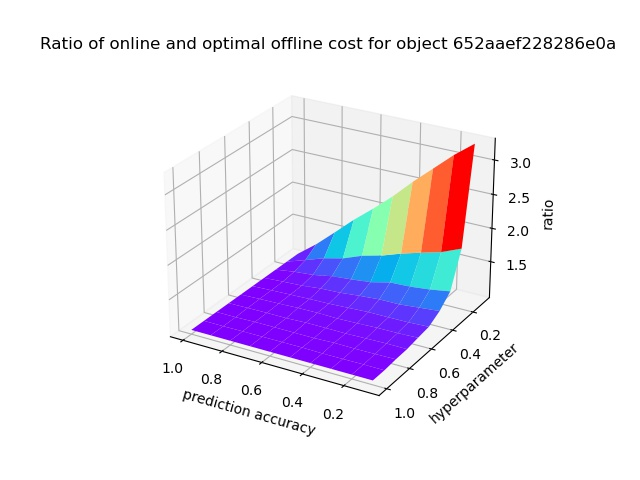
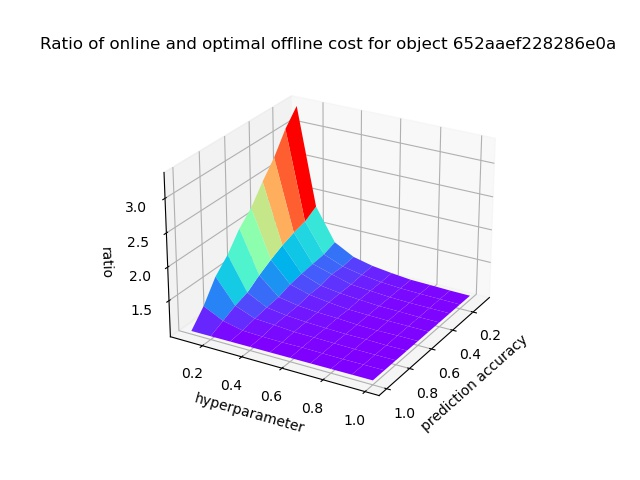
update

diff --git a/experiment.py b/experiment.py
@@ -13,25 +13,9 @@ import pandas as pd;
 import random;
 
 
-#alpha=1;
-#r=64;      ## r = actual total request rate * 16
-
-#requests = pd.read_table('data/'+str(alpha)+'_'+str(r)+'_Zipf1.txt',sep='\t',header=None);  ##request is now a dataframe
-#requests = np.array(requests);                                       ##convert into a numpy array
-#requests = requests.flatten();                                       ##convert it into 1-D array
-#requests = requests.tolist();                                         ##convert it into a list
-
-#local_server = pd.read_table('data/'+str(alpha)+'_'+str(r)+'_Zipf2.txt',sep='\t',header=None); 
-#local_server = local_server.astype('int')
-#local_server = np.array(local_server);                                    
-#local_server = local_server.flatten();                                       
-#local_server = local_server.tolist();        
-
-
 number_of_server = 10;
 alpha = 1;
 data = [];
-transfer_cost = 10000;
 with open("data/IBMObjectStore2.txt") as file:
     for item in file:
         item = item.strip('\n');
@@ -68,43 +52,45 @@ for ID in id_list:
                     local_server.append(j);
                     break;
         local_server[0] = 0;
-
-
-        ## Try different combinations of hyperparameter and prediction accuracy
-        hyperpara = np.array([0.1,0.2,0.3,0.4,0.5,0.6,0.7,0.8,0.9,1]);
-        accuracy = np.array([0.1,0.2,0.3,0.4,0.5,0.6,0.7,0.8,0.9,1]);
-        A, H = np.meshgrid(hyperpara, accuracy);
-        ratio = np.zeros((len(hyperpara),len(accuracy)));
-
-
-        offline_cost = offline(requests,local_server);
-        consistency = True;
-        robustness = True;
-        for i in range(len(hyperpara)):                     #hyperpara---->Y axis (data in row is the same)
-            for j in range(len(accuracy)):                  #accuracy---->X axis (data in column is the same)
-                ratio[i][j] = online(requests,local_server,hyperpara[i],accuracy[j])/offline_cost;
         
-                if ratio[i][j] > 1+(1/hyperpara[i]):
-                    robustness = False;
+        #Discuss the cases when the transfer cost is 10, 100, 1000, or 10000.
+        for transfer_cost in [10,100,1000,10000]:
+            ## Try different combinations of hyperparameter and prediction accuracy
+            hyperpara = np.array([0.1,0.2,0.3,0.4,0.5,0.6,0.7,0.8,0.9,1]);
+            accuracy = np.array([0.1,0.2,0.3,0.4,0.5,0.6,0.7,0.8,0.9,1]);
+            A, H = np.meshgrid(hyperpara, accuracy);
+            ratio = np.zeros((len(hyperpara),len(accuracy)));
+
+
+            offline_cost = offline(requests,local_server, transfer_cost);
+            consistency = True;
+            robustness = True;
+            for i in range(len(hyperpara)):                     #hyperpara---->Y axis (data in row is the same)
+                for j in range(len(accuracy)):                  #accuracy---->X axis (data in column is the same)
+                    ratio[i][j] = online(requests,local_server,hyperpara[i],accuracy[j],transfer_cost)/offline_cost;
+        
+                    if ratio[i][j] > 1+(1/hyperpara[i]):
+                        robustness = False;
             
-                if accuracy[j] == 1:
-                    if ratio[i][j] > (5+hyperpara[i])/3:
-                        consistency = False;
+                    if accuracy[j] == 1:
+                        if ratio[i][j] > (5+hyperpara[i])/3:
+                            consistency = False;
         
         
 
-        fig = plt.figure();
-        ax = plt.axes(projection = '3d');
-        ax.plot_surface(A,H,ratio,alpha=1,cmap='rainbow');
-        ax.set_ylabel('hyperparameter');
-        ax.set_xlabel('prediction accuracy');
-        ax.set_zlabel('ratio');
-        ax.set_title('Ratio of online and optimal offline cost for object '+ID);
-        ax.view_init(25,120);
-        plt.show();
-        plt.savefig('./Figure/'+'TransferCost='+str(transfer_cost)+'.jpg')
+            fig = plt.figure();
+            ax = plt.axes(projection = '3d');
+            ax.plot_surface(A,H,ratio,alpha=1,cmap='rainbow');
+            ax.set_ylabel('hyperparameter');
+            ax.set_xlabel('prediction accuracy');
+            ax.set_zlabel('ratio');
+            ax.set_title('Ratio of online and optimal offline cost for object '+ID);
+            ax.view_init(25,30);
+            plt.show();
+            plt.savefig('./Figure/'+'TransferCost='+str(transfer_cost)+'.jpg')
 
-
-        print('Always lower than consistency ratio when predictions are all correct? ',consistency);
-        print('Always lower than robustness ratio? ',robustness);
+            
+            print('When the transfer cost is '+str(transfer_cost)+',');
+            print('Always lower than consistency ratio when predictions are all correct? ',consistency);
+            print('Always lower than robustness ratio? ',robustness);
 

diff --git a/OfflineAlgorithmN.py b/OfflineAlgorithmN.py
@@ -6,11 +6,10 @@ Created on Wed Oct 26 15:27:06 2022
 """
 
 cache_cost = 1;
-transfer_cost = 10000;            #We assume that the transfer cost is 2.
 
 
 ##Find the candidate request r_k s.t. the storage period [r_{p(k)},r_k] crosses r_{p(i)}
-def FindHighestCross(start, end, requests, previous):
+def FindHighestCross(start, end, requests, previous, transfer_cost):
     highestCross = start;           ##highestCross is the highest index of request r_h between r_{p(i)} and r_{i} s.t. t_{h}-t_{p(h)} < transfer_cost
     candidate = [];
     first_request = [];             ##this list is used to store the indexes of candidate requests
@@ -33,7 +32,7 @@ def FindHighestCross(start, end, requests, previous):
 
 
 ##calcuate the marginal cost of request from index start to index end
-def MarginalBound(start, end, requests, previous):
+def MarginalBound(start, end, requests, previous, transfer_cost):
     cost = 0;
     cache = 0;
     for i in range(start, end+1):
@@ -49,7 +48,7 @@ def MarginalBound(start, end, requests, previous):
 
 
 
-def offline(requests,local_server):
+def offline(requests, local_server, transfer_cost):
     #requests = [0,1,4,5,8];          ##The request sequence should contain dummy request.
     #local_server =  [0,1,1,2,0];      ##the local servers of requests (indexed from 0)
     servers = max(local_server);     ##number of servers-1
@@ -86,11 +85,11 @@ def offline(requests,local_server):
         ##calculate the optimal cost when r_i is served by local cache
         ##case 1: For r_i, there is a previous local request in the same server. 
         if previous[i] > -1:
-            pivots = FindHighestCross(previous[i], i, requests, previous);
-            mincost = optimal[previous[i]] + (requests[i]-requests[previous[i]]) + MarginalBound(previous[i]+1, i-1, requests, previous);    
+            pivots = FindHighestCross(previous[i], i, requests, previous, transfer_cost);
+            mincost = optimal[previous[i]] + (requests[i]-requests[previous[i]]) + MarginalBound(previous[i]+1, i-1, requests, previous, transfer_cost);    
             candidate = mincost;
             for pivot in pivots:   ##use this for-loop to find the optimal cost when r_i is served by local cache
-                candidate = D[pivot] + (requests[i]-requests[previous[i]]) + MarginalBound(pivot+1, i-1, requests, previous);
+                candidate = D[pivot] + (requests[i]-requests[previous[i]]) + MarginalBound(pivot+1, i-1, requests, previous, transfer_cost);
             
                 if candidate < mincost:    ##find the minimal value of Type-D
                     mincost = candidate;
@@ -105,6 +104,3 @@ def offline(requests,local_server):
         optimal[i] = min(D[i],F[i]);
         
     return(optimal[len(requests)-1]);
-
-#print(optimal[len(requests)-1]);
-#print(offline([0,1,4,5,8],[0,1,1,2,0]))

diff --git a/OnlinePrediction.py b/OnlinePrediction.py
@@ -6,32 +6,10 @@ Created on Tue Oct 25 16:45:12 2022
 """
 import random
 
-#total_cost = 0;         ##We use it to record the total online cost
-#cache_cost = 1;
-#transfer_cost = 2;      #We assume that the transfer cost is 2.
 
-#hyper_para = 1;       ##hyperparameter of the online algorithm with prediction
-#prediction_accuracy = 0.7;
-#cache_time = [transfer_cost/hyper_para, hyper_para*transfer_cost];   ##two possible storage periods in the online algorithm with prediction
-
-#requests = [0,1,4,5,8];
-#local_server = [0,1,1,2,0];      ##the local servers of requests (indexed from 0)
-#servers = max(local_server);     ##number of servers-1
-#last_local = [0]+[float('-inf')]*(servers);    ##record the arrival time of the last local request
-
-#nextIAT = [0]*(len(requests));     ##the arrival time of the next local request
-#previous = [0]*(len(requests));    ##the index of previous request in the same server
-#expiration_time = [transfer_cost]+[float('-inf')]*(len(requests)-1);  ##the expiration of regular copy in the online algorithm
-
-#prediction = [-1]*(len(requests));   ##the binary prediction of whether the next arrival time is larger than transfer cost
-                                     ##0---smaller than transfer cost, 1---larger than transfer cost
-
-
-
-def online(requests, local_server, hyper_para, prediction_accuracy):
+def online(requests, local_server, hyper_para, prediction_accuracy, transfer_cost):
     total_cost = 0;         ##We use it to record the total online cost
     cache_cost = 1;
-    transfer_cost = 10000;      #We assume that the transfer cost is 2.
     
     cache_time = [transfer_cost/hyper_para, hyper_para*transfer_cost];   ##two possible storage periods in the online algorithm with prediction
     servers = max(local_server);     ##number of servers-1
